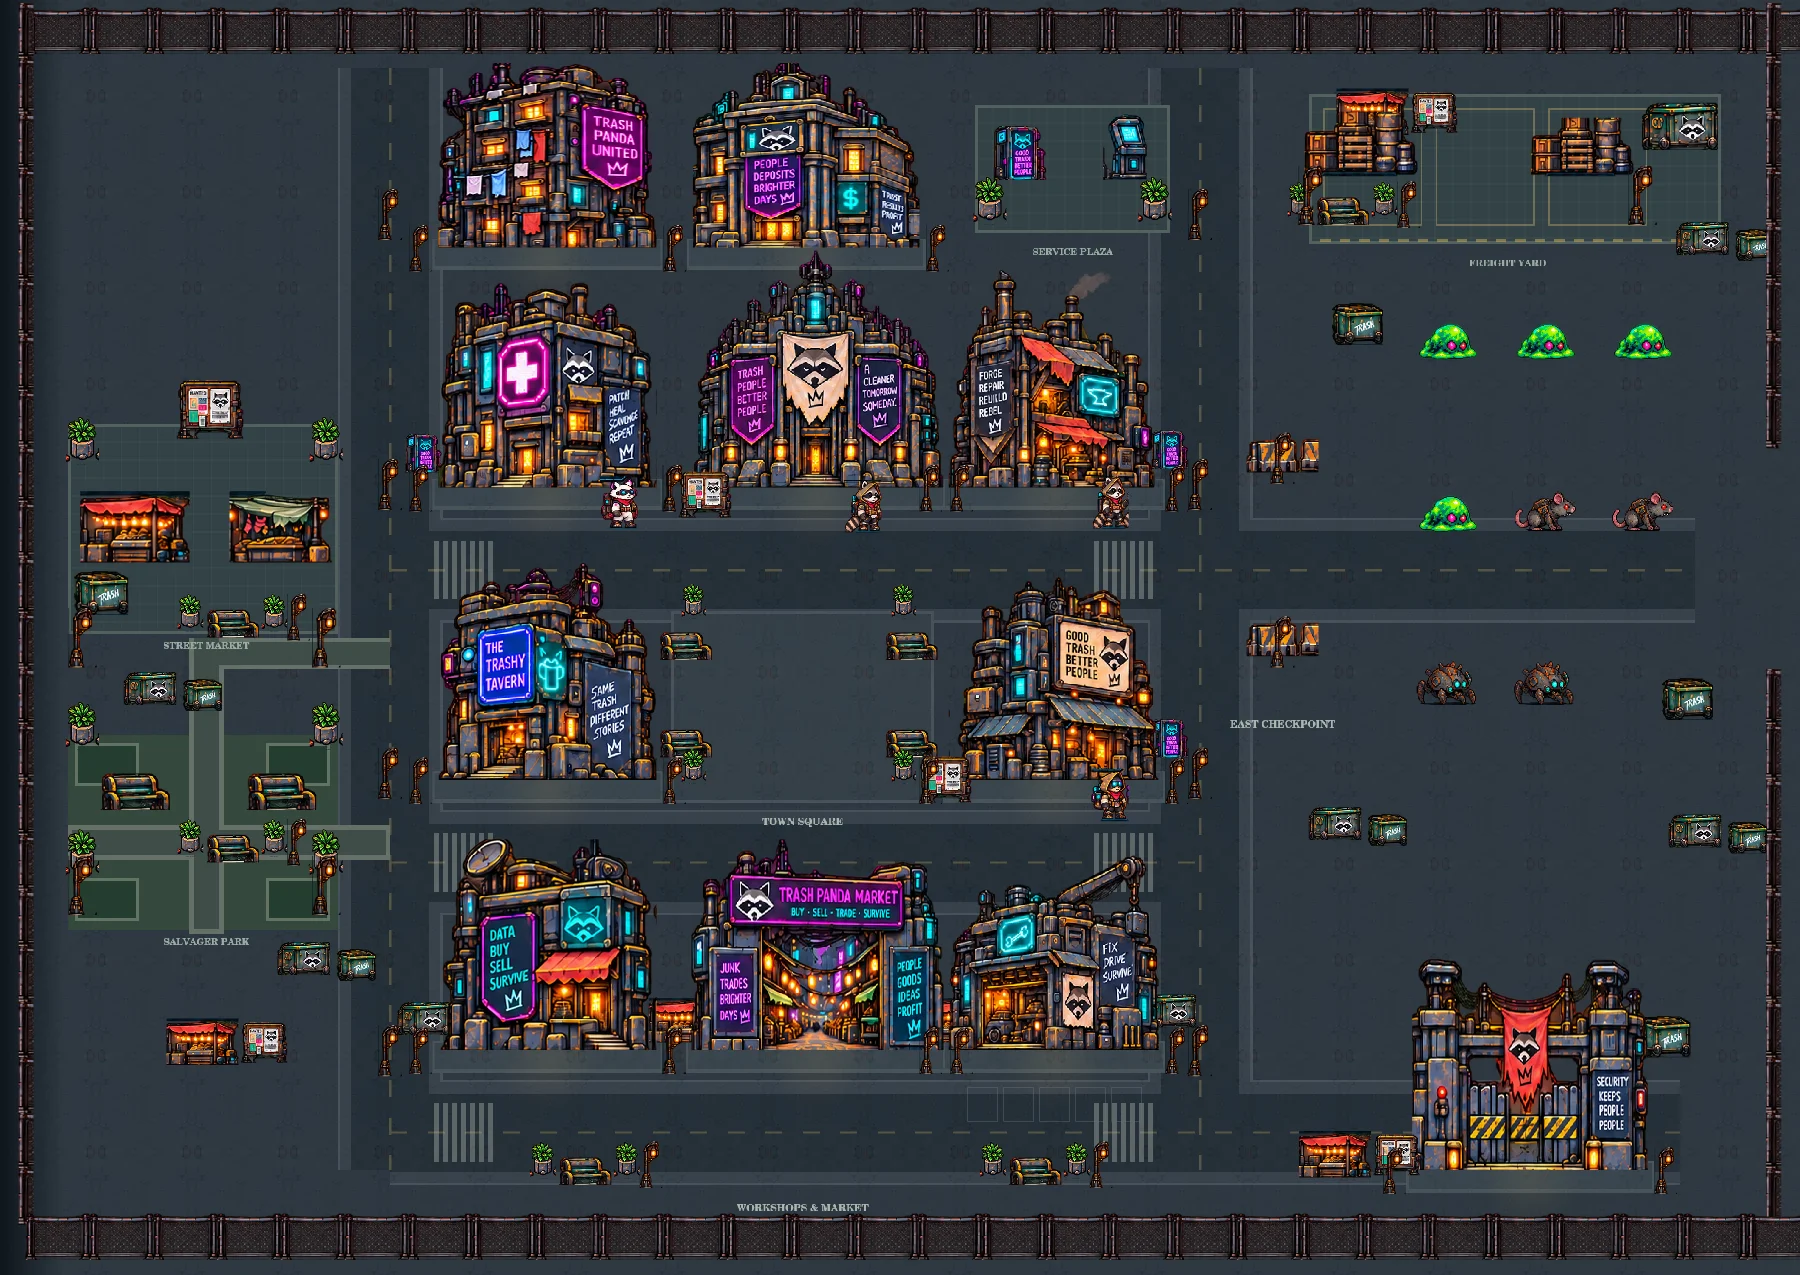
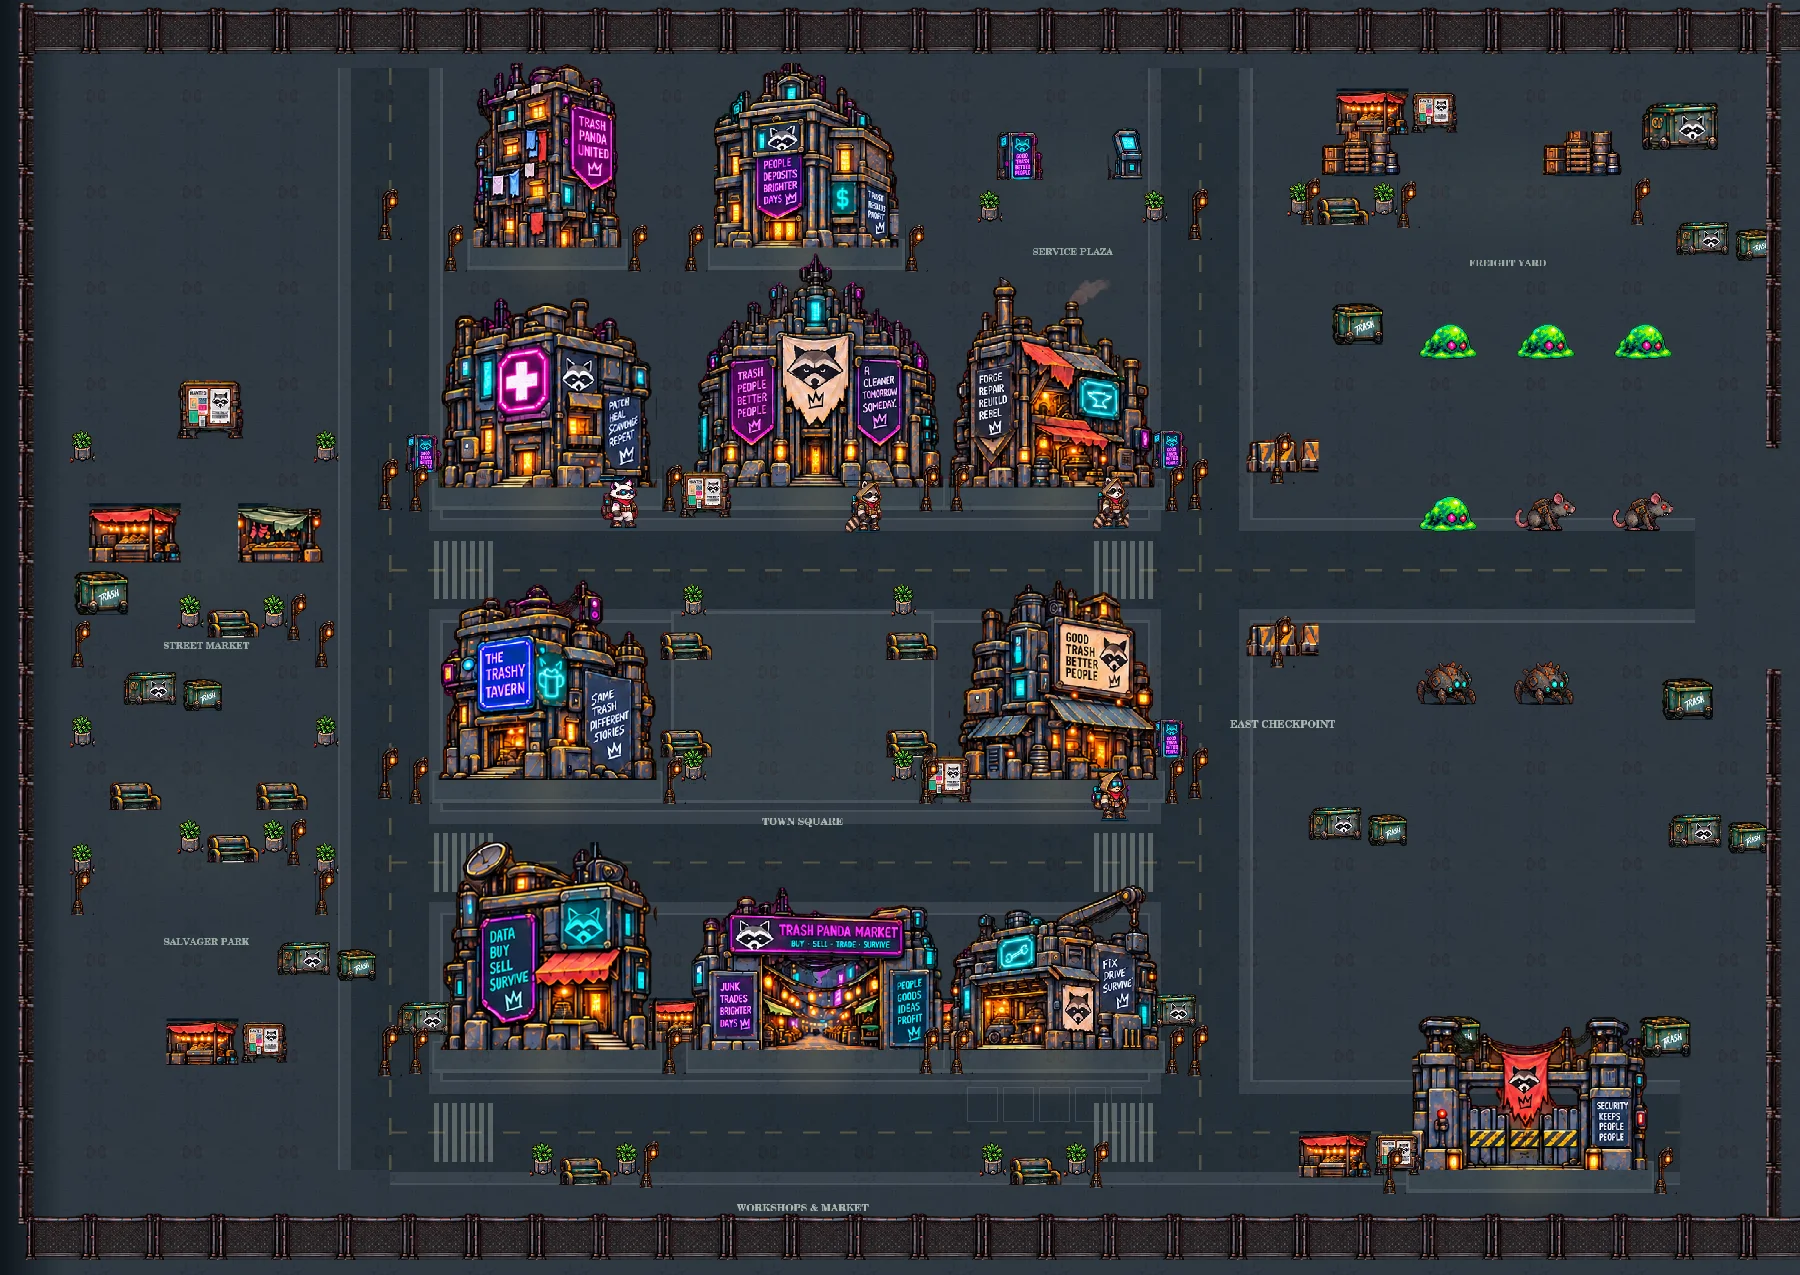
Remove city ground grids and restore atlas proportions

diff --git a/components/tpu/terrain.ts b/components/tpu/terrain.ts
@@ -22,24 +22,14 @@ export function makeTerrain(image:HTMLImageElement,rustyWoodsEnabled=true){
  // Crosswalks and parking markings are continuous world geometry, not framed tiles.
  g.fillStyle='#a4aea66e';for(const x of [615,1495])for(const y of [760,1150,1510])for(let i=-3;i<=3;i++)g.fillRect(x+i*12,y-39,6,78);
  g.strokeStyle='#68747266';g.lineWidth=2;for(let x=1290;x<1510;x+=48){g.strokeRect(x,1450,40,45)}
- // Authored district surfaces. Narrow paths connect the western pockets to
- // the boulevard, and keep the residential plots above them unobstructed.
- const paving=(x:number,y:number,w:number,h:number)=>{
-  g.fillStyle='#52605d';g.fillRect(x,y,w,h);g.fillStyle='#334247';g.fillRect(x+4,y+4,w-8,h-8);
-  g.strokeStyle='#61706a35';g.lineWidth=1;g.beginPath();
-  for(let px=x+24;px<x+w;px+=24){g.moveTo(px,y+4);g.lineTo(px,y+h-4);}
-  for(let py=y+24;py<y+h;py+=24){g.moveTo(x+4,py);g.lineTo(x+w-4,py);}g.stroke();
- };
- paving(90,565,360,280);paving(1300,140,260,170);paving(1745,125,550,200);
- g.fillStyle='#34483d';g.fillRect(90,980,360,260);
- g.fillStyle='#667069';g.fillRect(252,850,46,395);g.fillRect(90,1100,430,46);g.fillRect(275,850,245,42);
- g.fillStyle='#3e4d49';g.fillRect(258,850,34,389);g.fillRect(96,1106,418,34);g.fillRect(281,856,239,30);
- // Bordered planting beds, not obstacles across walking routes.
- for(const [x,y] of [[100,990],[355,990],[100,1170],[355,1170]]){g.fillStyle='#647363';g.fillRect(x,y,85,58);g.fillStyle='#243d31';g.fillRect(x+4,y+4,77,50);}
- // The loading apron gets parking bays and a striped safety edge.
- g.strokeStyle='#b7a06977';g.lineWidth=2;
- for(const x of [1765,1915,2065])g.strokeRect(x,145,130,155);
- g.fillStyle='#c6a55288';for(let x=1760;x<2290;x+=26)g.fillRect(x,318,14,5);
+ // Districts share the existing textured ground. Soft, unframed wear marks
+ // replace the editor-like grids, oversized rectangular pads and empty beds.
+ for(const [x,y,rx,ry] of [[275,740,170,105],[275,1100,170,125],[1430,245,125,90],[2010,255,270,95]]){
+  g.save();g.translate(x,y);g.scale(rx,ry);
+  const wear=g.createRadialGradient(0,0,.1,0,0,1);
+  wear.addColorStop(0,'#80908212');wear.addColorStop(1,'#80908200');
+  g.fillStyle=wear;g.fillRect(-1,-1,2,2);g.restore();
+ }
  // Subtle pools of warm light at the busiest public entrances.
  for(const b of BUILDINGS){const x=b.x+b.w/2,y=b.y+b.h+12,light=g.createRadialGradient(x,y,2,x,y,65);light.addColorStop(0,'#ffc76817');light.addColorStop(1,'#ffc76800');g.fillStyle=light;g.fillRect(x-65,y-65,130,130);}
  g.font='bold 12px monospace';g.textAlign='center';g.fillStyle='#9aada3';

diff --git a/packages/game-core/town-scenery.ts b/packages/game-core/town-scenery.ts
@@ -3,19 +3,19 @@
 export type TownProp={sx:number;sy:number;sw:number;sh:number;x:number;y:number;w:number;h:number;solid?:{w:number;h:number}};
 export const TOWN_PROPS:TownProp[]=[
  // Street market west of the tavern: two stalls around an open courtyard.
- {sx:16,sy:1071,sw:122,sh:79,x:180,y:750,w:146,h:95,solid:{w:122,h:28}},
- {sx:147,sy:1071,sw:115,sh:79,x:375,y:750,w:138,h:95,solid:{w:114,h:28}},
+ {sx:16,sy:1071,sw:122,sh:79,x:180,y:750,w:122,h:79,solid:{w:100,h:24}},
+ {sx:147,sy:1071,sw:115,sh:79,x:375,y:750,w:115,h:79,solid:{w:94,h:24}},
  {sx:917,sy:937,sw:111,sh:97,x:280,y:585,w:89,h:78,solid:{w:60,h:20}},
  {sx:766,sy:1083,sw:80,sh:68,x:135,y:820,w:72,h:61,solid:{w:54,h:24}},
  // Pocket park, benches face the central walkway.
- {sx:325,sy:984,sw:93,sh:49,x:180,y:1080,w:93,h:49,solid:{w:78,h:18}},
- {sx:325,sy:984,sw:93,sh:49,x:375,y:1080,w:93,h:49,solid:{w:78,h:18}},
+ {sx:325,sy:984,sw:93,sh:49,x:180,y:1080,w:70,h:37,solid:{w:58,h:16}},
+ {sx:325,sy:984,sw:93,sh:49,x:375,y:1080,w:70,h:37,solid:{w:58,h:16}},
  // A service plaza north of the workshop, with a terminal and vending machine.
- {sx:235,sy:942,sw:87,sh:90,x:1360,y:240,w:70,h:72,solid:{w:46,h:20}},
- {sx:742,sy:937,sw:64,sh:99,x:1500,y:240,w:58,h:89,solid:{w:40,h:20}},
+ {sx:235,sy:942,sw:87,sh:90,x:1360,y:240,w:62,h:64,solid:{w:42,h:18}},
+ {sx:742,sy:937,sw:64,sh:99,x:1500,y:240,w:46,h:71,solid:{w:32,h:18}},
  // Loading yard north of the danger zone. No crates in the combat corridor.
- {sx:891,sy:1077,sw:137,sh:78,x:1815,y:235,w:151,h:86,solid:{w:126,h:30}},
- {sx:891,sy:1077,sw:137,sh:78,x:2110,y:235,w:137,h:78,solid:{w:110,h:28}},
+ {sx:891,sy:1077,sw:137,sh:78,x:1815,y:235,w:105,h:60,solid:{w:86,h:24}},
+ {sx:891,sy:1077,sw:137,sh:78,x:2110,y:235,w:105,h:60,solid:{w:86,h:24}},
  {sx:651,sy:1080,sw:112,sh:70,x:2240,y:200,w:101,h:63,solid:{w:82,h:24}},
-];
+].map(p=>({...p,h:p.w*p.sh/p.sw})); // One scale on both axes: never stretch atlas artwork.
 export function townPropBlocked(x:number,y:number){return TOWN_PROPS.some(p=>p.solid&&Math.abs(x-p.x)<p.solid.w/2+12&&y>p.y-p.solid.h-12&&y<p.y+12)}

diff --git a/packages/game-core/world.ts b/packages/game-core/world.ts
@@ -17,7 +17,8 @@ export const WORLD={width:WOODS_WORLD_WIDTH,height:1700,spawn:{x:1150,y:880}};
 export const BUILDINGS=[{x:940,y:390,w:300,h:260,sx:0,sy:0,sw:365,sh:340,name:'City Hall'},{x:1280,y:400,w:250,h:250,sx:368,sy:30,sw:294,sh:310,name:'Workshop'},{x:1280,y:800,w:250,h:240,sx:980,sy:57,sw:274,sh:283,name:'General Store'},{x:600,y:800,w:260,h:240,sx:0,sy:375,sw:285,sh:264,name:'The Trashy Tavern'},{x:600,y:400,w:260,h:250,sx:284,sy:377,sw:269,sh:261,name:'Clinic'},{x:940,y:1170,w:300,h:230,sx:559,sy:667,sw:341,sh:220,name:'Market Arcade'},{x:1280,y:1170,w:250,h:230,sx:666,sy:72,sw:315,sh:268,name:'Mechanic Garage'},{x:600,y:90,w:260,h:240,sx:1040,sy:371,sw:214,sh:267,name:'Apartments'},{x:600,y:1170,w:260,h:230,sx:0,sy:666,sw:232,sh:221,name:'Tech Exchange'},{x:1900,y:1330,w:280,h:230,sx:235,sy:678,sw:320,sh:209,name:'Salvage Depot'},{x:940,y:90,w:270,h:240,sx:560,sy:369,sw:268,sh:268,name:'Old Bank'}].map(b=>{
  // Keep entrance centres and pavement baselines fixed; widen facades and
  // grow roofs upward, leaving clearance below the northern perimeter.
- const w=Math.round(b.w*1.12),h=Math.min(Math.round(b.h*1.22),b.y+b.h-84);
+ const maxH=Math.min(b.h*1.22,b.y+b.h-84);
+ const w=Math.min(b.w*1.12,maxH*b.sw/b.sh),h=w*b.sh/b.sw;
  return {...b,x:b.x-(w-b.w)/2,y:b.y+b.h-h,w,h};
 });
 export const WORLD_LIMITS={left:59,right:WORLD.width-59,top:86,bottom:WORLD.height-94};

diff --git a/components/tpu/world-decor.ts b/components/tpu/world-decor.ts
@@ -36,7 +36,7 @@ for(const [x,y] of [[270,1420],[1780,1570],[1830,180]]){
 }
 
 // Planted verges frame the market and park; the paths remain open.
-for(const [x,y] of [[110,620],[435,620],[110,1000],[435,1000],[110,1170],[435,1170],[1320,300],[1540,300]])foliage(x,y,44,66);
-for(const [x,y] of [[110,890],[435,890],[110,1220],[435,1220],[1750,300],[2190,300]])prop(8,940,45,93,x,y,38,79);
+for(const [x,y] of [[110,620],[435,620],[110,1000],[435,1000],[110,1170],[435,1170],[1320,300],[1540,300]])foliage(x,y,32,48);
+for(const [x,y] of [[110,890],[435,890],[110,1220],[435,1220],[1750,300],[2190,300]])prop(8,940,45,93,x,y,30,62);
 
 // Forest scenery is authored in woods-layout.ts and rendered by woodsObjects.

diff --git a/docs/CITY-REFRESH.md b/docs/CITY-REFRESH.md
@@ -1,7 +1,7 @@
 # Trash Town scale and streetscape refresh
 
-Building widths increase by 12% and most heights by 22%. Northern roofs are
-capped below the perimeter. Entrance centres and baseline positions stay fixed;
+Buildings fit within a 12% wider and 22% taller envelope using the original
+atlas aspect ratio. Northern roofs are capped below the perimeter. Entrance centres and baseline positions stay fixed;
 the shared building definitions also update collision widths and the minimap.
 Existing saved characters caught in widened bases or new furniture return to the
 town spawn once, with progression preserved. Indoor positions are retained.
@@ -15,6 +15,11 @@ New authored places use the existing pixel-art atlas:
 - Salvager Park: paved walking paths, planted verges and larger benches.
 - Service plaza: vending machine and terminal scenery.
 - Freight yard: loading bays, crate stacks, dumpster and safety markings.
+
+The district ground uses the existing asphalt texture and soft wear marks, with
+no added grids, rectangular plaza carpets or empty planting-bed outlines. Benches
+match the older 70-pixel street benches, crates are smaller, and terminals and
+plants use a consistent street scale. New props preserve the atlas aspect ratio.
 
 New substantial furniture has ground-footprint collisions shared by client
 movement, server simulation and monster pathfinding. Existing decorative props
